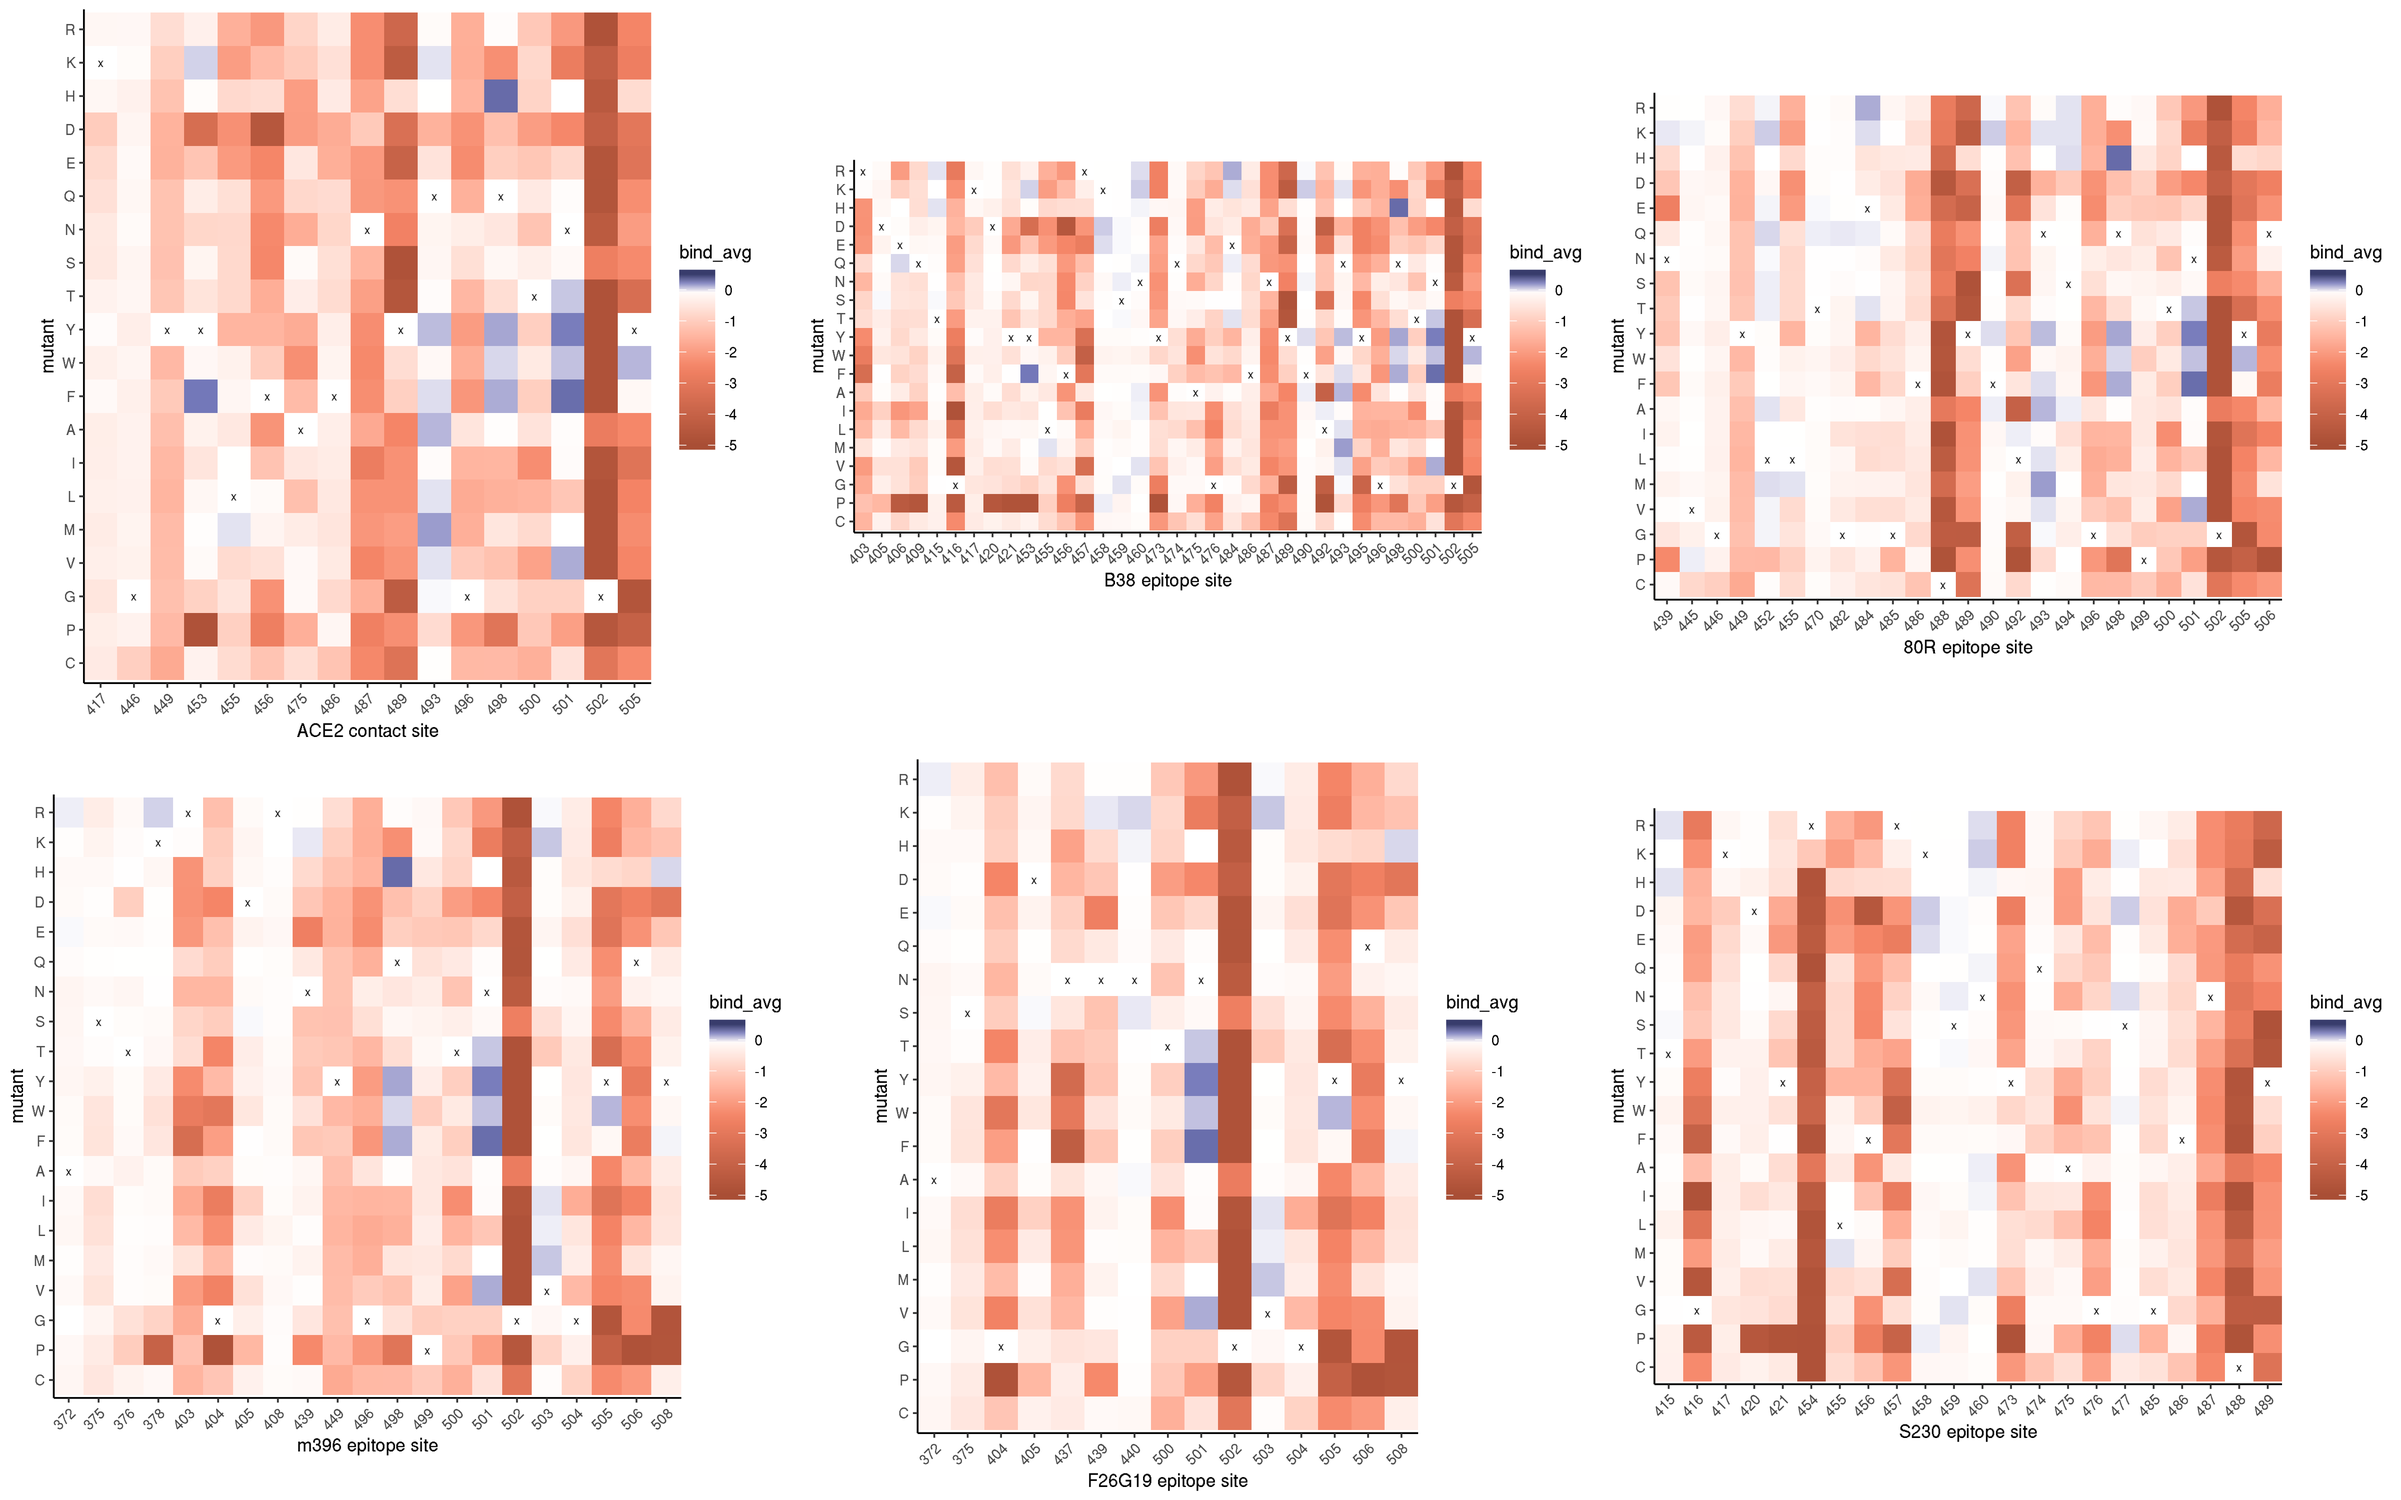
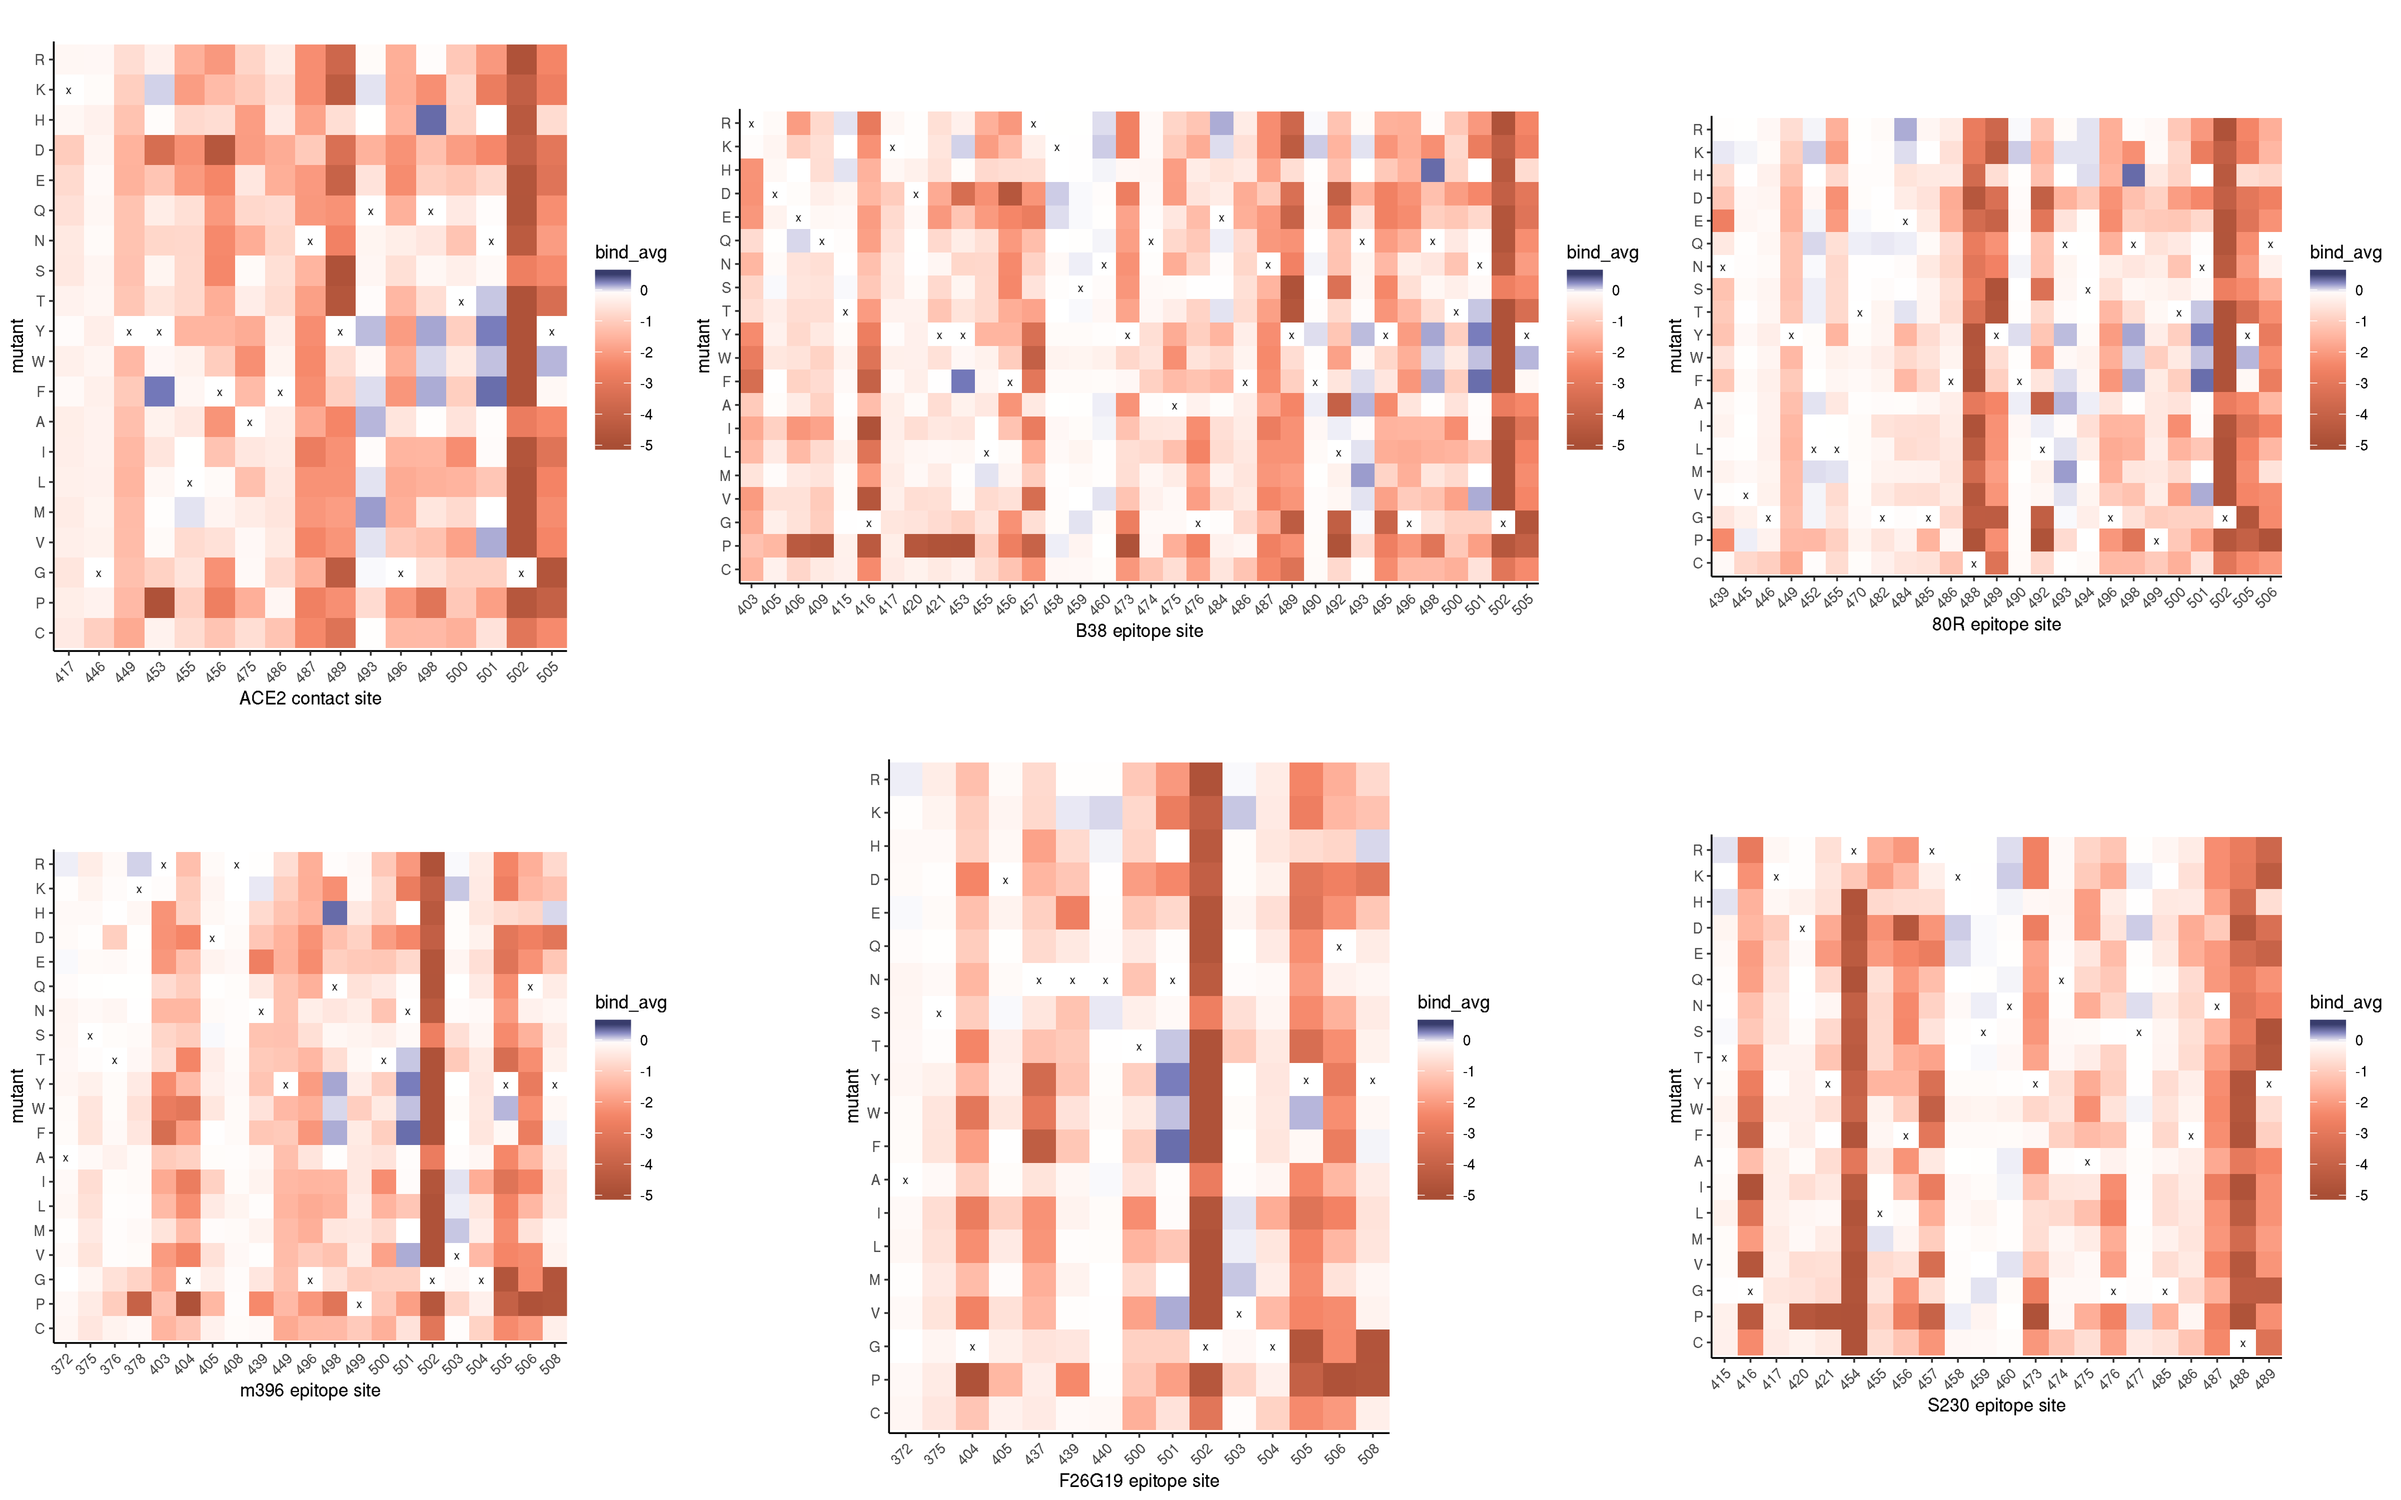
Fix typos, improve plot layout

diff --git a/results/summary/antibody_epitopes.md b/results/summary/antibody_epitopes.md
@@ -4,7 +4,9 @@ Tyler Starr
 5/12/2020
 
 This notebook analyzes the mutational tolerance of residues within
-eptiopes of different monoclonal antibodies
+epitopes of different monoclonal antibodies
+
+## Setup
 
 ``` r
 require("knitr")
@@ -77,8 +79,6 @@ sessionInfo()
     ## [37] assertthat_0.2.1 colorspace_1.4-1 stringi_1.4.3    lazyeval_0.2.2  
     ## [41] munsell_0.5.0    broom_0.5.2      crayon_1.3.4
 
-## Setup
-
 Read in tables of variant effects on binding and expression for single
 mutations to the SARS-CoV-2 RBD and for homolog RBDs.
 
@@ -99,7 +99,7 @@ RBD_sites[,max_expr := max(mutants[SARS2_site==site_SARS2 & wildtype != mutant &
 RBD_sites[,min_expr := min(mutants[SARS2_site==site_SARS2 & wildtype != mutant & mutant != "*",expr_avg],na.rm=T),by=site_SARS2]
 ```
 
-## Compare mutational tolerance of antibody epitopes
+## Compare mutational tolerance within antibody epitopes
 
 We have mapped antibody epitope residues for seven mAbs with published
 structures – six of the seven mAbs were raised against SARS-CoV-1, but
@@ -108,11 +108,10 @@ more generally, they highlight the types of epitopes that SARS-related
 CoV RBDs can induce. The seventh, B38, was isolated from a SARS-CoV-2
 convalescent patient. I expect many more SARS-CoV-2 raised mAbs will be
 upcoming, and we can add them in as needed, including preprint
-structures (e.g. S309) whose structures are not yet publically
-available.
+structures (e.g. S309) whose structures are not yet publicly available.
 
-Let’s compare patterns of mutational sensitiivity within each of the mAb
-epitopes, and ocmpare to ACE2 contact residues for reference. (We may
+Let’s compare patterns of mutational sensitivity within each of the mAb
+epitopes, and compare to ACE2 contact residues for reference. (We may
 also need to account for epitopes like CR3022 and VHH72, where the
 epitope is partially overlapping with residues that make
 intra/inter-protomer contacts within full Spike. Perhaps analysis of
@@ -120,10 +119,6 @@ natrual sequence variation can help here?) Below, we output violin plots
 for individual mutational effects at sites within each epitope (top
 row), and for the average mutational effect per site for sites within
 each epitope (bottom row).
-
-    ## Warning: Removed 4 rows containing non-finite values (stat_ydensity).
-
-    ## Warning: Removed 4 rows containing non-finite values (stat_summary).
 
 <img src="antibody_epitopes_files/figure-gfm/violin_plot_epitope_mut_effects-1.png" style="display: block; margin: auto;" />
 
@@ -133,7 +128,7 @@ constraint with regards to binding (though not as much constraint as on
 the ACE2-contact residues themselves). There is *perhaps* some visual
 variation among antibody epitopes in the severity of the average
 mutational effect to epitope contact positions. (However, statistically,
-there is not variation in the median effect of mutatioins on binding in
+there is not variation in the median effect of mutations on binding in
 these five epitopes, Kruskal-Wallis ANOVA P-value 0.28). The average
 mutation in these RBM motif epitope sites incurs a \~0.5-0.6 reduction
 in log<sub>10</sub>(*K*<sub>A,app</sub>) ACE2-binding affinity, which is
@@ -141,6 +136,7 @@ likely meaningful (more extreme than SARS-CoV-1 reduction in affinity
 (0.25 log10Ka uniits), on par with LYRa11 (0.5 log10Ka units) which can
 still promote huACE2-mediated cellular entry, but with reduced
 quantitative in vitro infectivity according to Letko et al. 2020).
+
 Furthermore, sites in B38 and S230 epitopes might exhibit slightly
 higher mutational constraint than those in the other RBM-directed mAbs,
 though these differences may be minor – and more broadly, of course, we
@@ -158,10 +154,11 @@ while S230 only contacts this lobe. (Should re-check the S230 paper,
 S230 I believe binds “RBD down” and may make contacts to other Spike
 subunits). Taken together, it seems that RBM-directed antibodies do
 target epitopes that are mutationally constrained, though mutations that
-have no or positive effects on ACE2-binding affinity are certainly
-present, and further study is needed\! Also suggests more constraint is
-possible by honing in a more focused response on the key ACE2 contact
-residues, which are more constrained than the average epitope position.
+have no large effect or positive effects on ACE2-binding affinity are
+certainly present, and further study is needed\! Also suggests more
+constraint is possible by honing in a more focused response on the key
+ACE2 contact residues, which are more constrained than the average
+epitope position even for epitopes that overlap ACE2 contact residues.
 
 The last two antibodies, VHH72 and CR3022, bind epitopes fully or mostly
 within the “core” RBD, meaning mutational effects on ACE2 binding are
@@ -184,42 +181,31 @@ mediating human infectivity, and LYRa11, which can promote
 huACE2-mediated cellular infection in cell culture, though at reduced
 infectivity compared to e.g. SARS-CoV-1 RBD.
 
-``` r
-epitopes_table <- data.frame(epitope=unique(mutants_epitope$epitope))
-for(i in 1:nrow(epitopes_table)){
-  epitopes_table$median_bind[i] <- median(mutants_epitope[epitope==epitopes_table$epitope[i] & mutant!=wildtype & mutant!="*",bind_avg],na.rm=T)
-  epitopes_table$median_expr[i] <- median(mutants_epitope[epitope==epitopes_table$epitope[i] & mutant!=wildtype & mutant!="*",expr_avg],na.rm=T)
-  epitopes_table$frac_SARS_CoV_1[i] <- nrow(mutants_epitope[epitope==epitopes_table$epitope[i] & mutant!=wildtype & mutant!="*" & bind_avg > homologs[homolog=="SARS-CoV-1",bind_avg],])/nrow(mutants_epitope[epitope==epitopes_table$epitope[i] & mutant!=wildtype & mutant!="*",])
-  epitopes_table$frac_LYRa11[i] <- nrow(mutants_epitope[epitope==epitopes_table$epitope[i] & mutant!=wildtype & mutant!="*" & bind_avg > homologs[homolog=="LYRa11",bind_avg],])/nrow(mutants_epitope[epitope==epitopes_table$epitope[i] & mutant!=wildtype & mutant!="*",])
-}
-
-kable(epitopes_table, digits=2, col.names=c("epitope","median delta_log<sub>10</sub>(*K*<sub>A,app</sub>)","median delta_log-fluorescence","fraction > SARS-CoV-1 affinity","fraction > LYRa11 affinity"))
-```
-
-| epitope | median delta\_log<sub>10</sub>(*K*<sub>A,app</sub>) | median delta\_log-fluorescence | fraction \> SARS-CoV-1 affinity | fraction \> LYRa11 affinity |
-| :------ | --------------------------------------------------: | -----------------------------: | ------------------------------: | --------------------------: |
-| ACE2    |                                              \-0.98 |                         \-0.10 |                            0.21 |                        0.34 |
-| B38     |                                              \-0.67 |                         \-0.36 |                            0.31 |                        0.42 |
-| 80R     |                                              \-0.56 |                         \-0.20 |                            0.37 |                        0.48 |
-| m396    |                                              \-0.56 |                         \-0.35 |                            0.35 |                        0.48 |
-| F26G19  |                                              \-0.55 |                         \-0.44 |                            0.35 |                        0.49 |
-| S230    |                                              \-0.65 |                         \-0.44 |                            0.33 |                        0.44 |
-| VHH72   |                                              \-0.16 |                         \-0.55 |                            0.61 |                        0.72 |
-| CR3022  |                                              \-0.14 |                         \-0.59 |                            0.63 |                        0.73 |
+| epitope | median delta\_log<sub>10</sub>(*K*<sub>A,app</sub>) | median delta\_log-fluorescence | fraction muts \> SARS-CoV-1 affinity | fraction muts \> LYRa11 affinity |
+| :------ | --------------------------------------------------: | -----------------------------: | -----------------------------------: | -------------------------------: |
+| ACE2    |                                              \-0.98 |                         \-0.10 |                                 0.21 |                             0.34 |
+| B38     |                                              \-0.67 |                         \-0.36 |                                 0.31 |                             0.42 |
+| 80R     |                                              \-0.56 |                         \-0.20 |                                 0.37 |                             0.48 |
+| m396    |                                              \-0.56 |                         \-0.35 |                                 0.35 |                             0.48 |
+| F26G19  |                                              \-0.55 |                         \-0.44 |                                 0.35 |                             0.49 |
+| S230    |                                              \-0.65 |                         \-0.44 |                                 0.33 |                             0.44 |
+| VHH72   |                                              \-0.16 |                         \-0.55 |                                 0.61 |                             0.72 |
+| CR3022  |                                              \-0.14 |                         \-0.59 |                                 0.63 |                             0.73 |
 
 ## Comparison to natural sequence diversity
 
 Let’s compare our mutational constraint on antibody epitopes to natural
 diversity in different antibody epitopes from an alignment of
-sarbecovirus RBDs. First, we read in an alignment of RBD amino acid
-sequences from across the sarbecovirus clade (noting that many of these
-sequences are so-called “Clade 2” sequences, which have not been shown
-to bind human or any other ACE2 – so whether they evolve under
-constraint for ACE2-binding, at this point, is unclear\! Bat ACE2 is
-also under elevated positive selection, so these Clade 2 sequences could
-be adapted to “odd” ACE2s within bat hosts, or who knows what…). We then
-compute the entropy of each alignment position, and compare the
-site-wise entropy of sites in each antibody epitope.
+sarbecovirus RBDs. We read in an alignment of RBD amino acid sequences
+from across the sarbecovirus clade (noting that many of these sequences
+are so-called “Clade 2” sequences, which have not been shown to bind
+human or any other ACE2 – so whether they evolve under constraint for
+ACE2-binding, at this point, is unclear\! Bat ACE2 is also under
+elevated positive selection, so these Clade 2 sequences could be adapted
+to “odd” ACE2s within bat hosts, or who knows what…). We then compute
+the entropy of each alignment position, and compare the site-wise
+entropy/number of effective amino acids (N<sub>eff</sub>) of sites in
+each antibody epitope.
 
 We see that epitopes exhibit the least natural sequence variation for
 the core-RBD mAbs, VHH72 and CR3022. Among the RBM-directed mAbs, 80R
